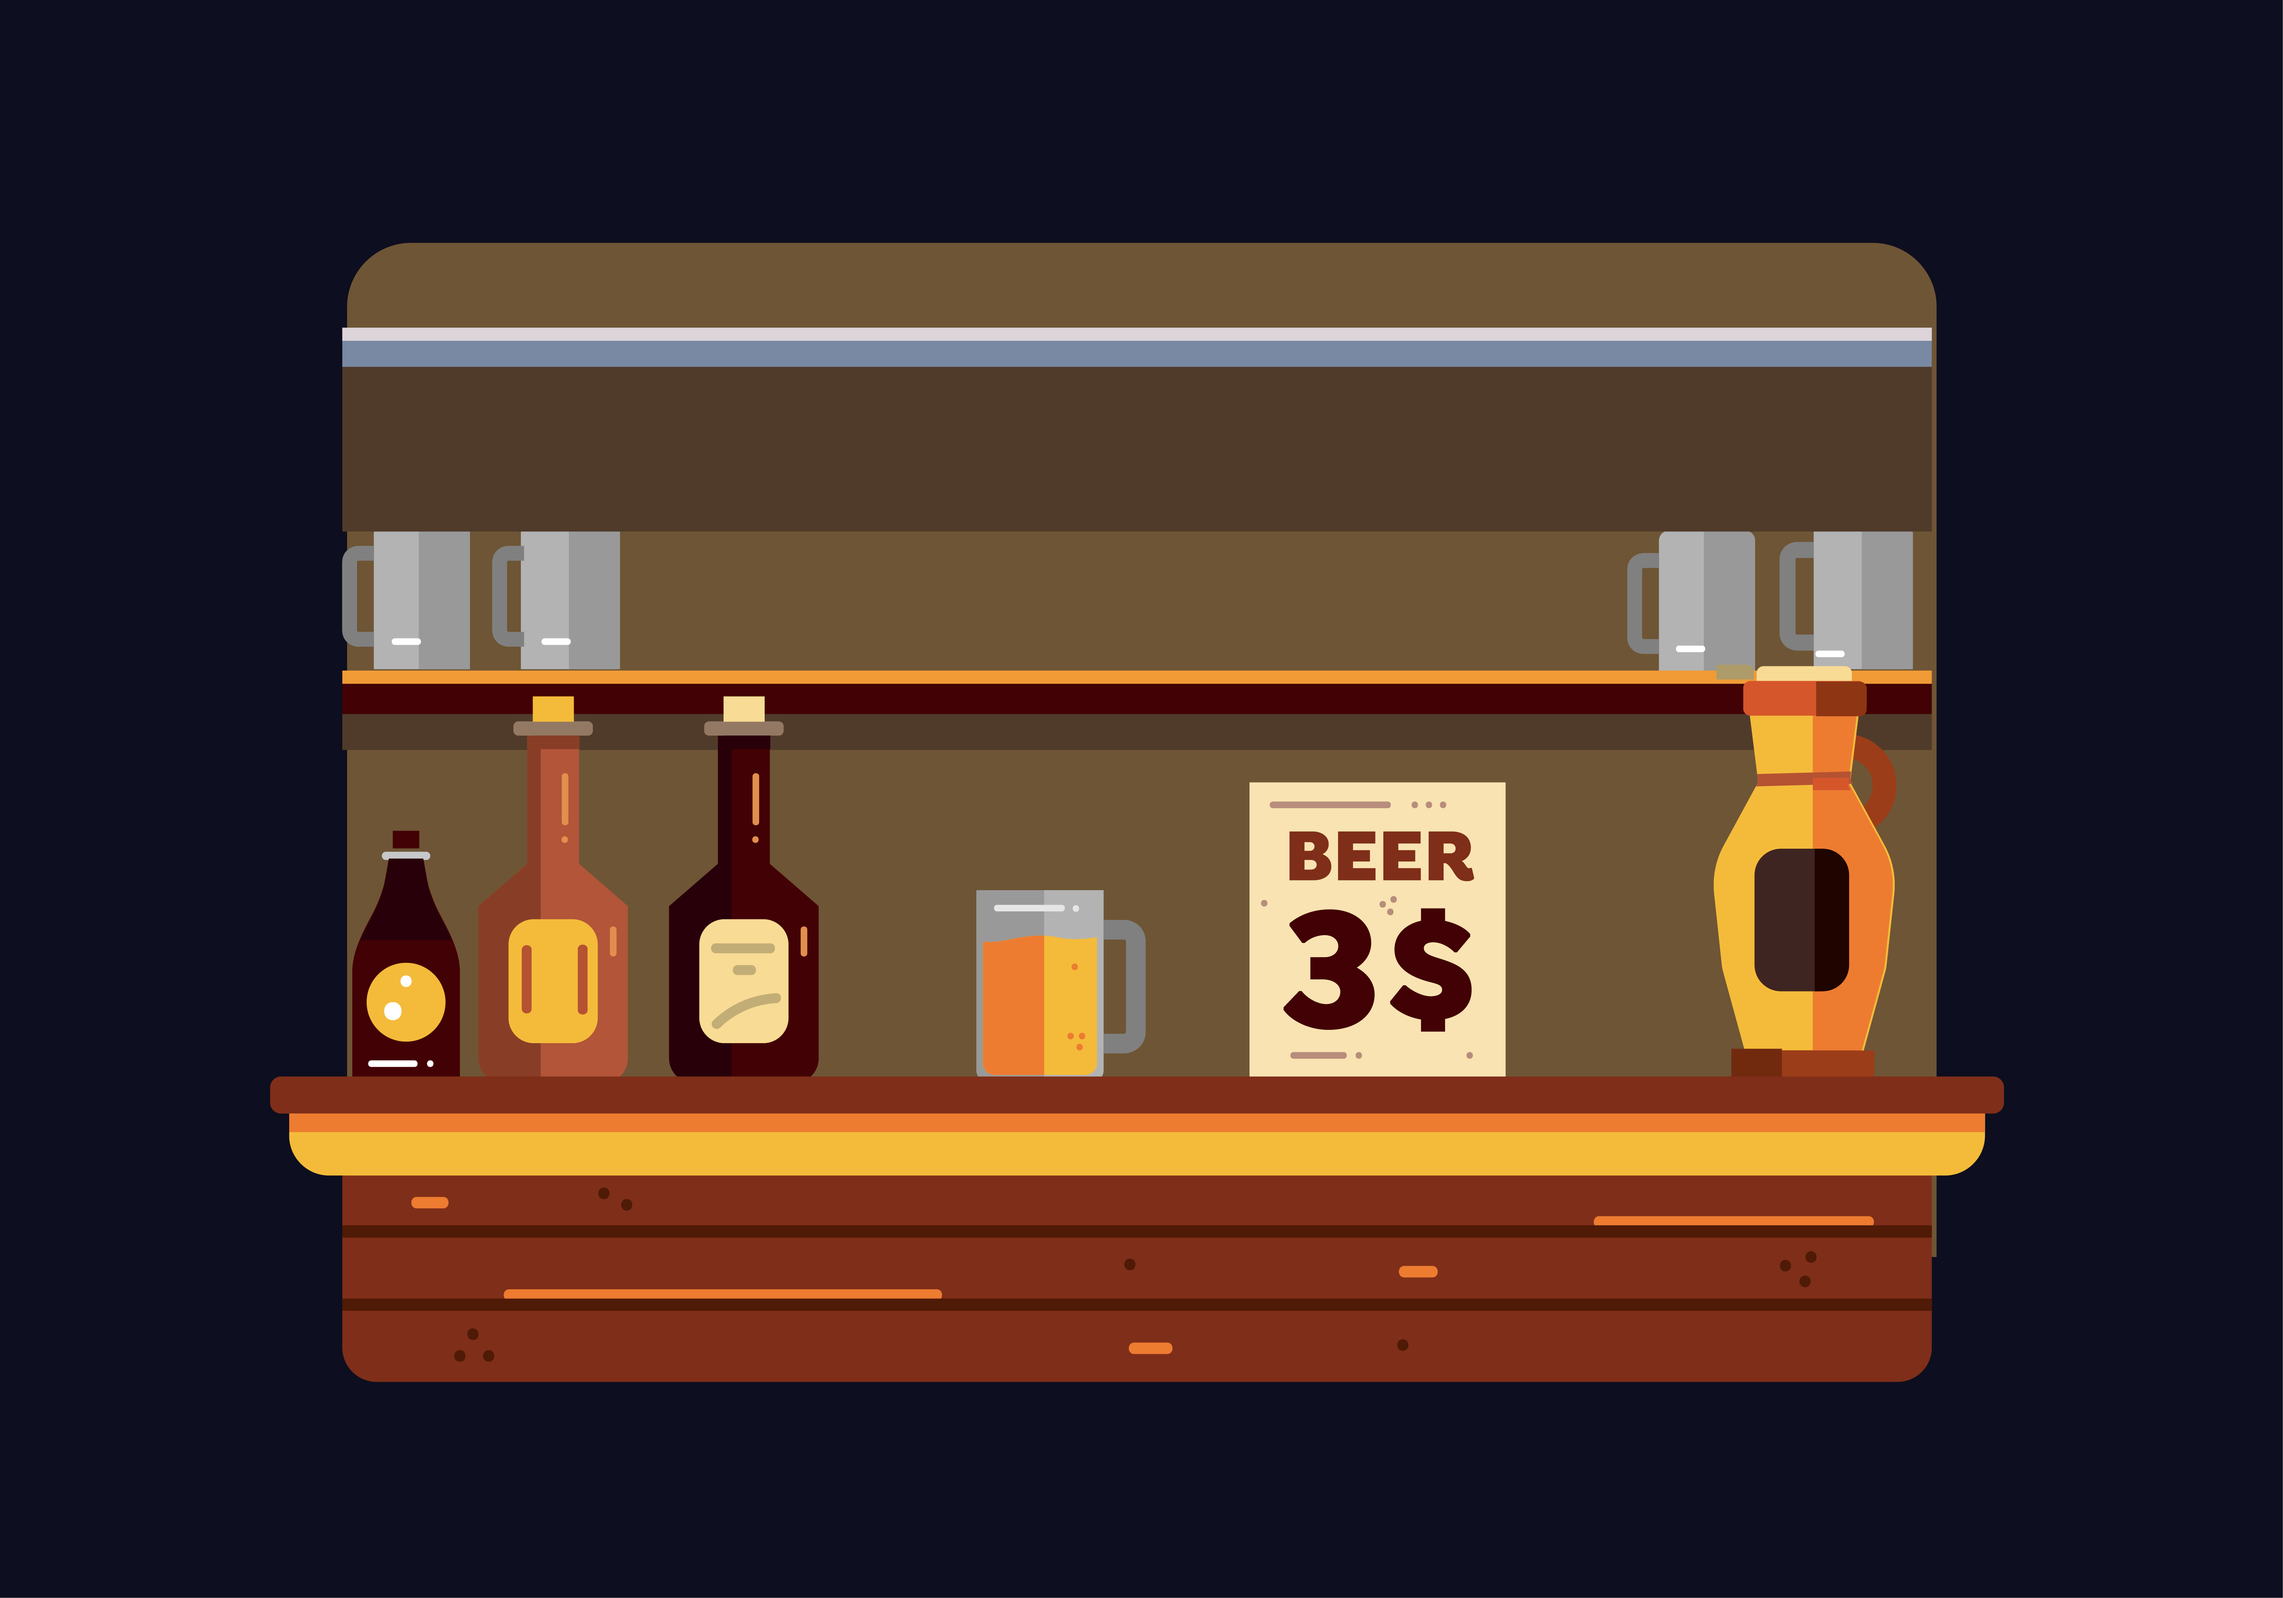
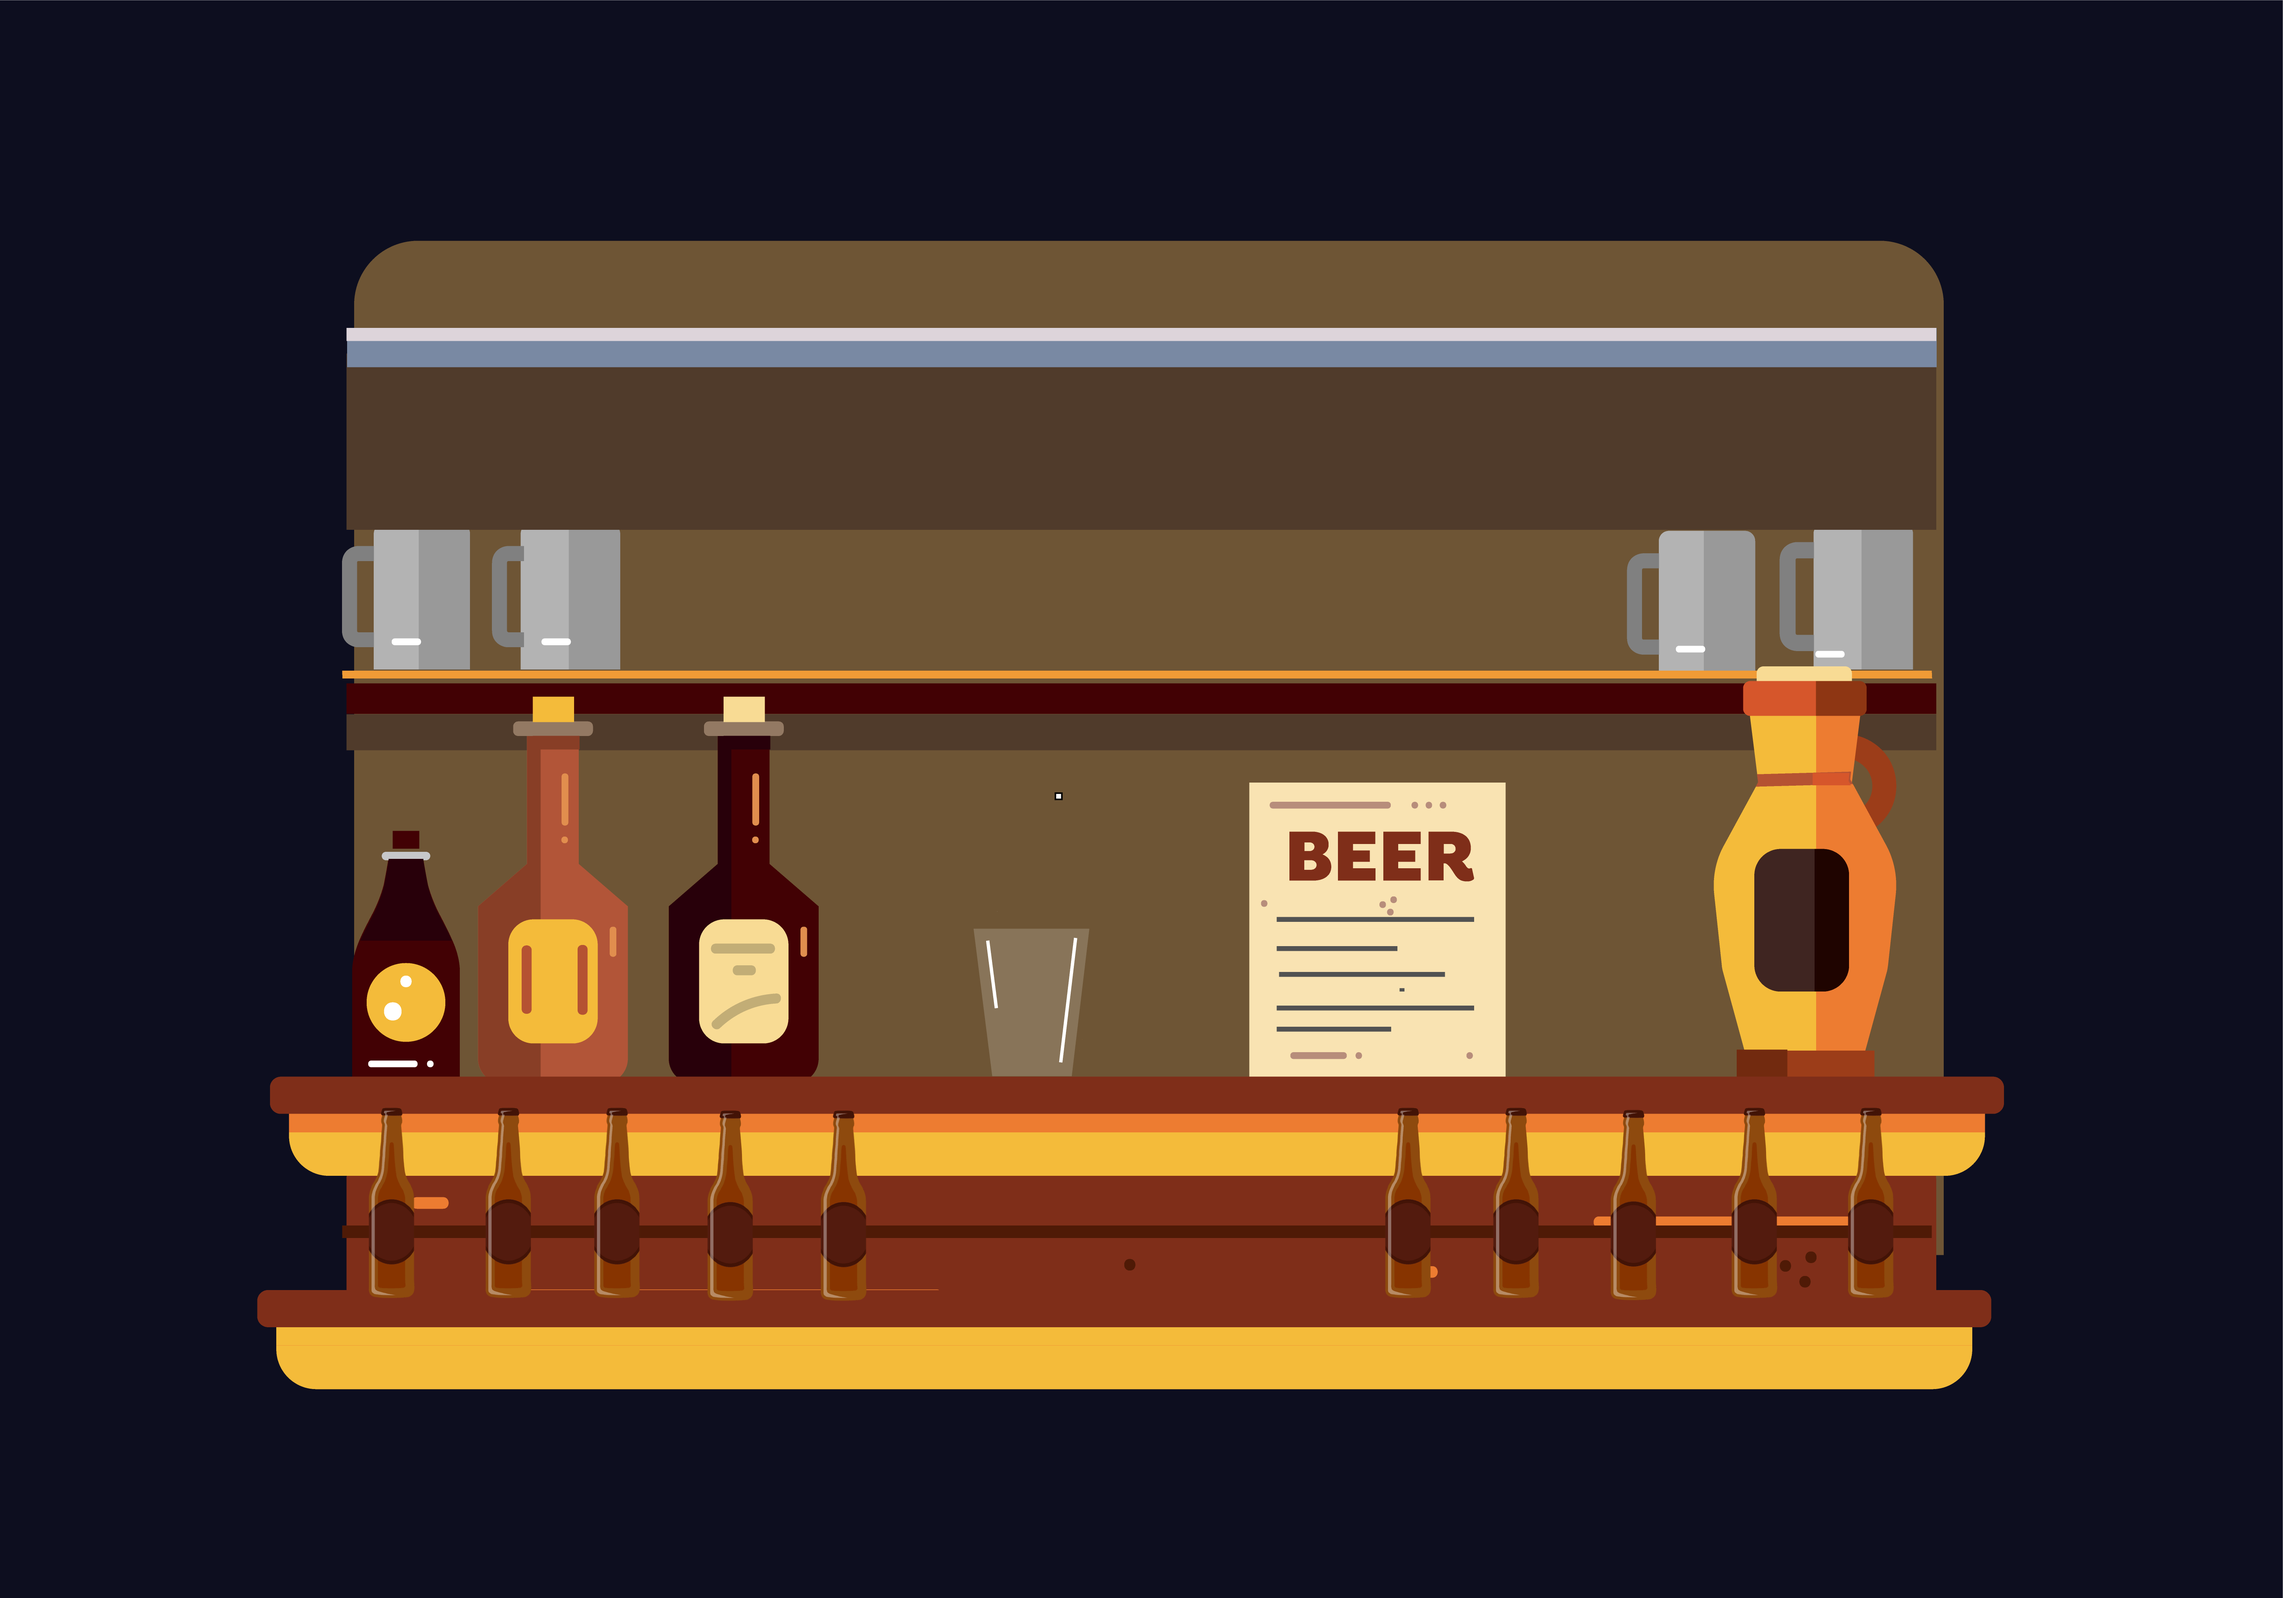
Background Bottles

diff --git a/brewers-mark/client/src/components/Bottles/bottlesexport.js b/brewers-mark/client/src/components/Bottles/bottlesexport.js
@@ -1,17 +1,23 @@
 import React, { Component } from "react";
 import BottlesList from './bottleslist.js'
 import BottlesBtn from './bottles.js'
+import $ from 'jquery'; 
 
 class BottlesNav extends Component {
 
     state = {
       bottles: [{title:'English IPA', href:'link1'}, {title:'West Coast IPA',href:'link2'}, {title:'East Coast IPA',href:'link3'}, {title:'Double IPA',href:'link4'}, {title:'Triple IPA',href:'link5'}, {title:'Session IPA',href:'link6'}, {title:'Black IPA',href:'link7'}, {title:'Belgian IPA',href:'link8'}, {title:'Grapefruit IPA',href:'link9'}],
     };
-  
+
+    componentDidMount(){
+        $('body').css('background-image' , 'url(./bottleback.png)')
+      }
+
+      
     render() {
       return(
   
-    <div>
+    <div id='bottlenav'>
     <BottlesList>
         {this.state.bottles.map(bottles => {
           return (

diff --git a/brewers-mark/client/src/components/Brewer/caskexport.js b/brewers-mark/client/src/components/Brewer/caskexport.js
@@ -1,13 +1,14 @@
 import React, { Component } from "react";
 import CaskList from './casklist.js'
 import BrewersCask from './brewer.js'
+import $ from 'jquery'; 
 
 class BrewerNav extends Component {
 
     state = {
-      brewers: [{title:'IPA', href:'link1'}, {title:'Lager',href:'link2'}, {title:'Ale',href:'link3'}, {title:'Stout',href:'link4'}],
+      brewers: [{title:'IPA', href:'/IPA'}, {title:'Lager',href:'link2'}, {title:'Ale',href:'link3'}, {title:'Stout',href:'link4'}],
     };
-  
+    
     render() {
       return(
   

diff --git a/brewers-mark/client/src/components/Bottles/bottles.css b/brewers-mark/client/src/components/Bottles/bottles.css
@@ -7,8 +7,8 @@
 }
 
 .bottle{
-    width:150px;
-    height: 300px;
+    width:200px;
+    height: 430px;
     margin-bottom: 3px;
     background-image: url('../../assets/images/bottle.png');
     background-size: contain;
@@ -24,4 +24,6 @@
     margin-left: auto;
     margin-right: auto;
     z-index: 1;
+    position: absolute;
+    top: 35%;
 }
